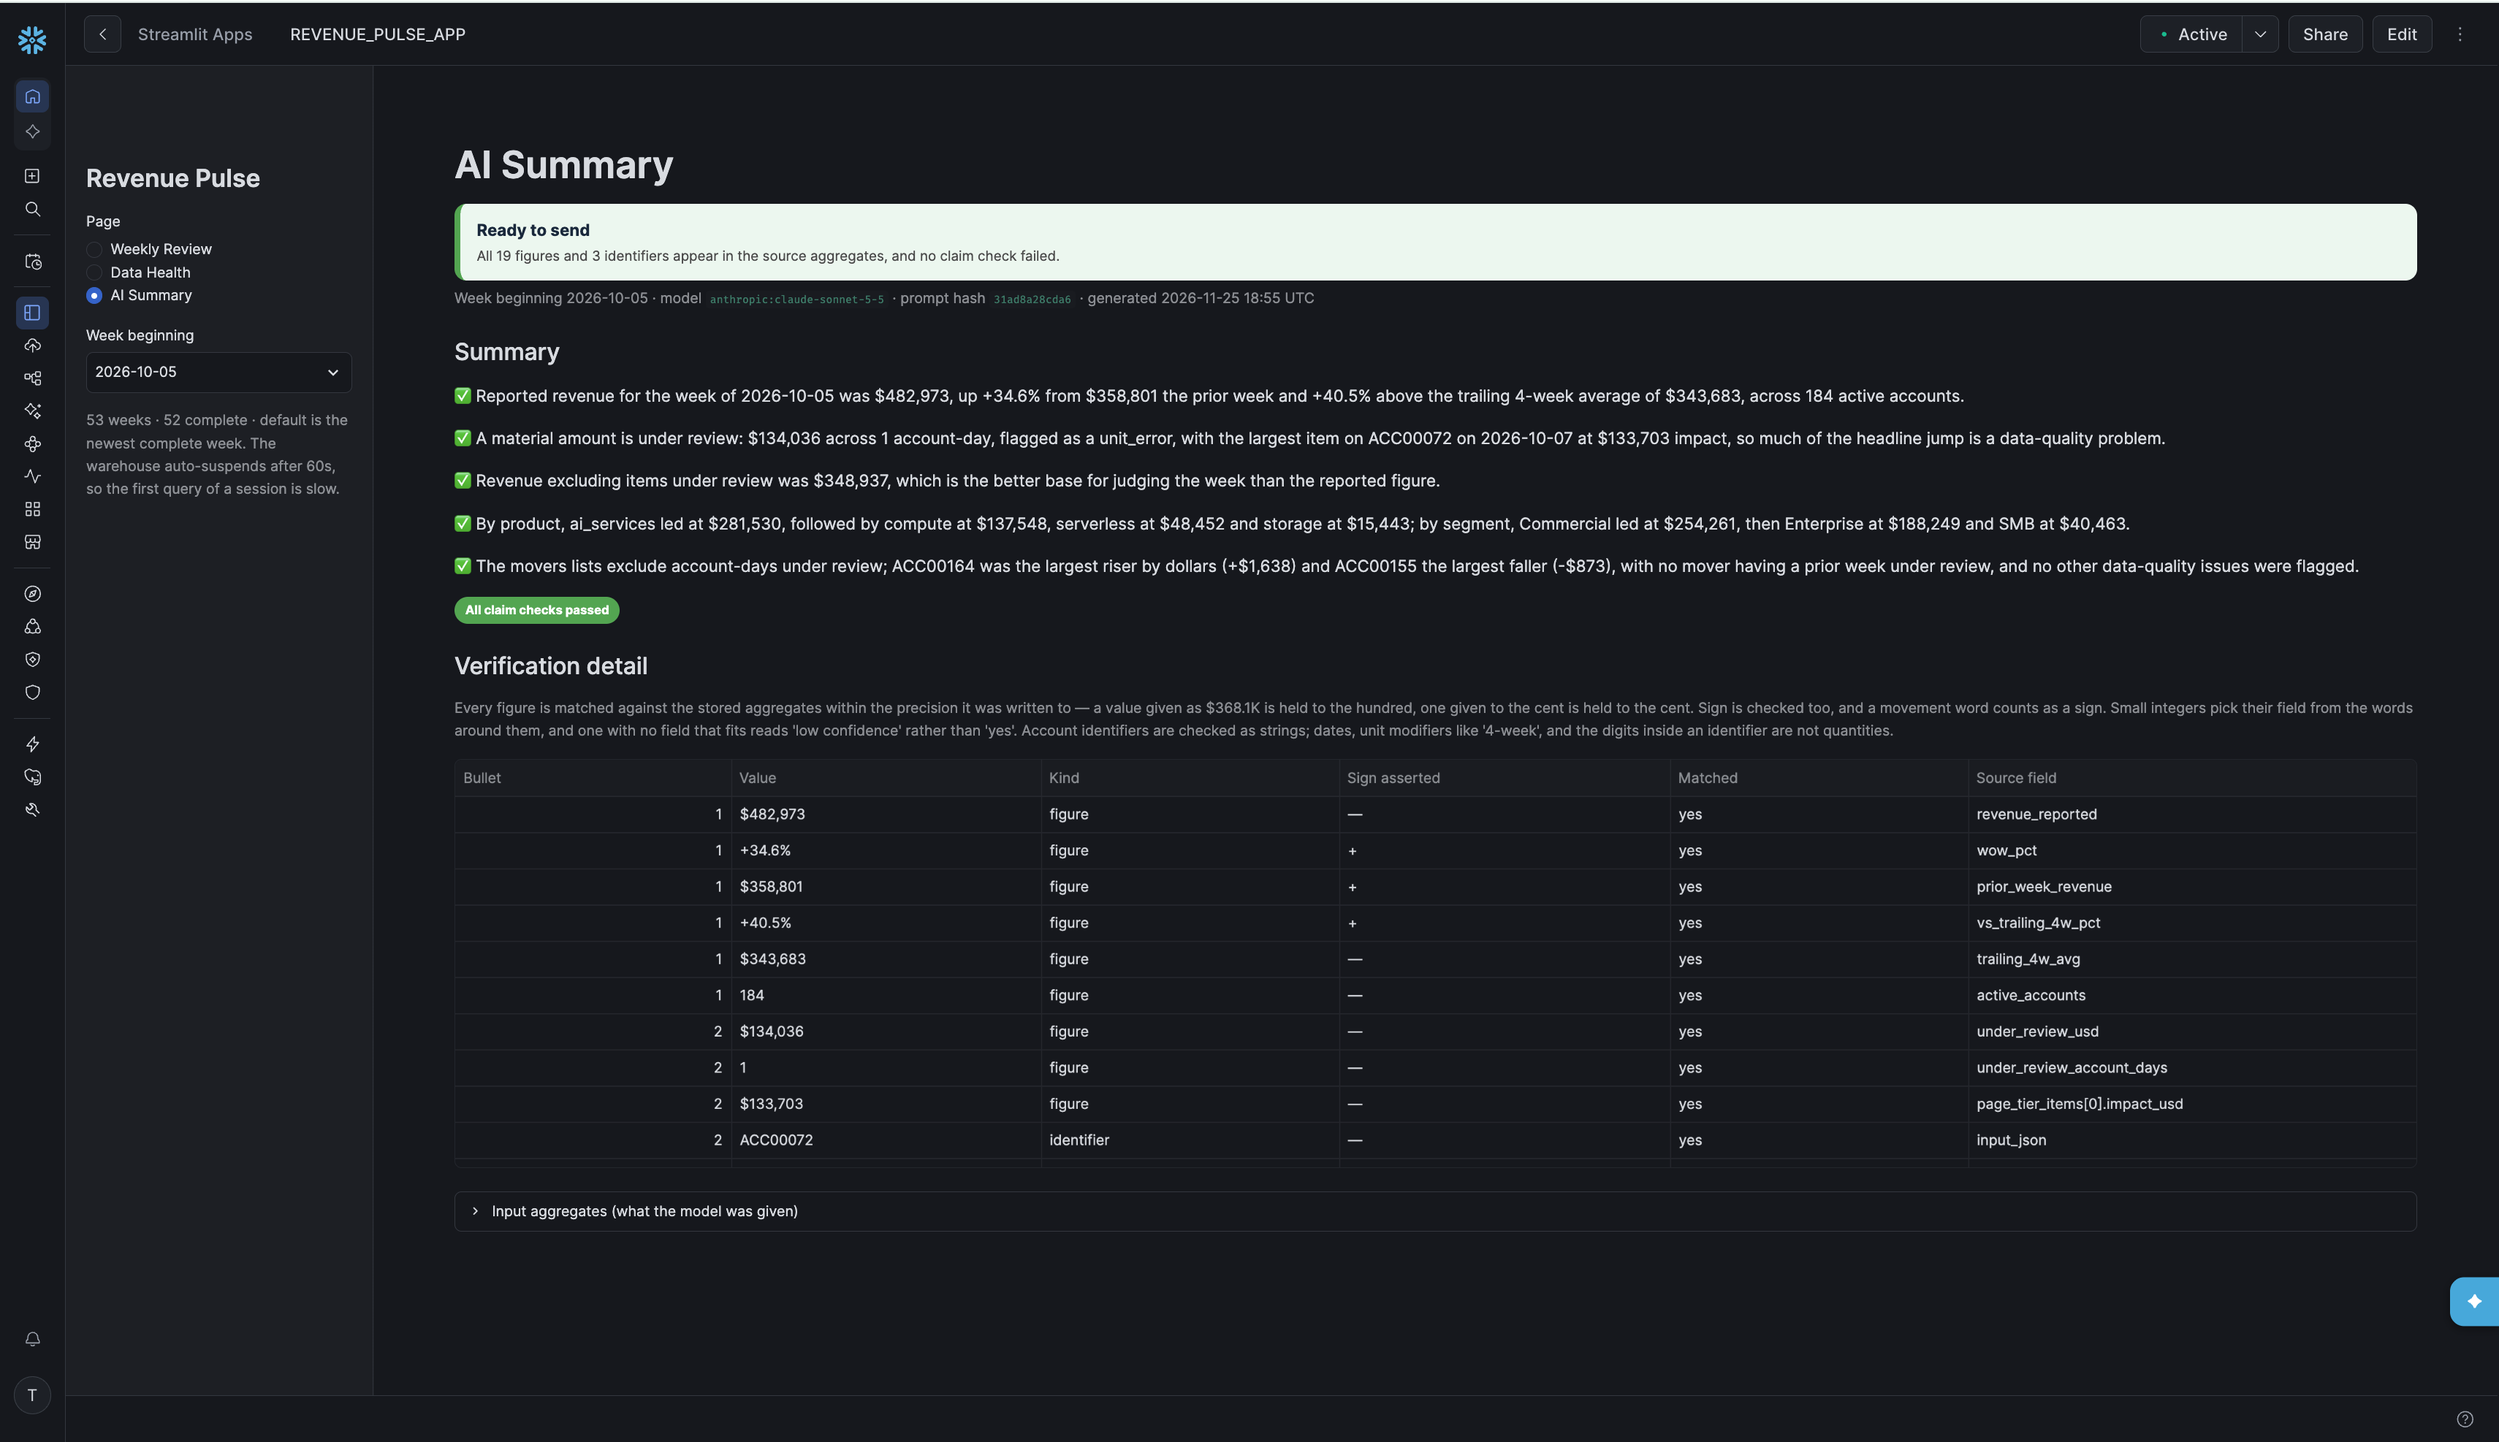
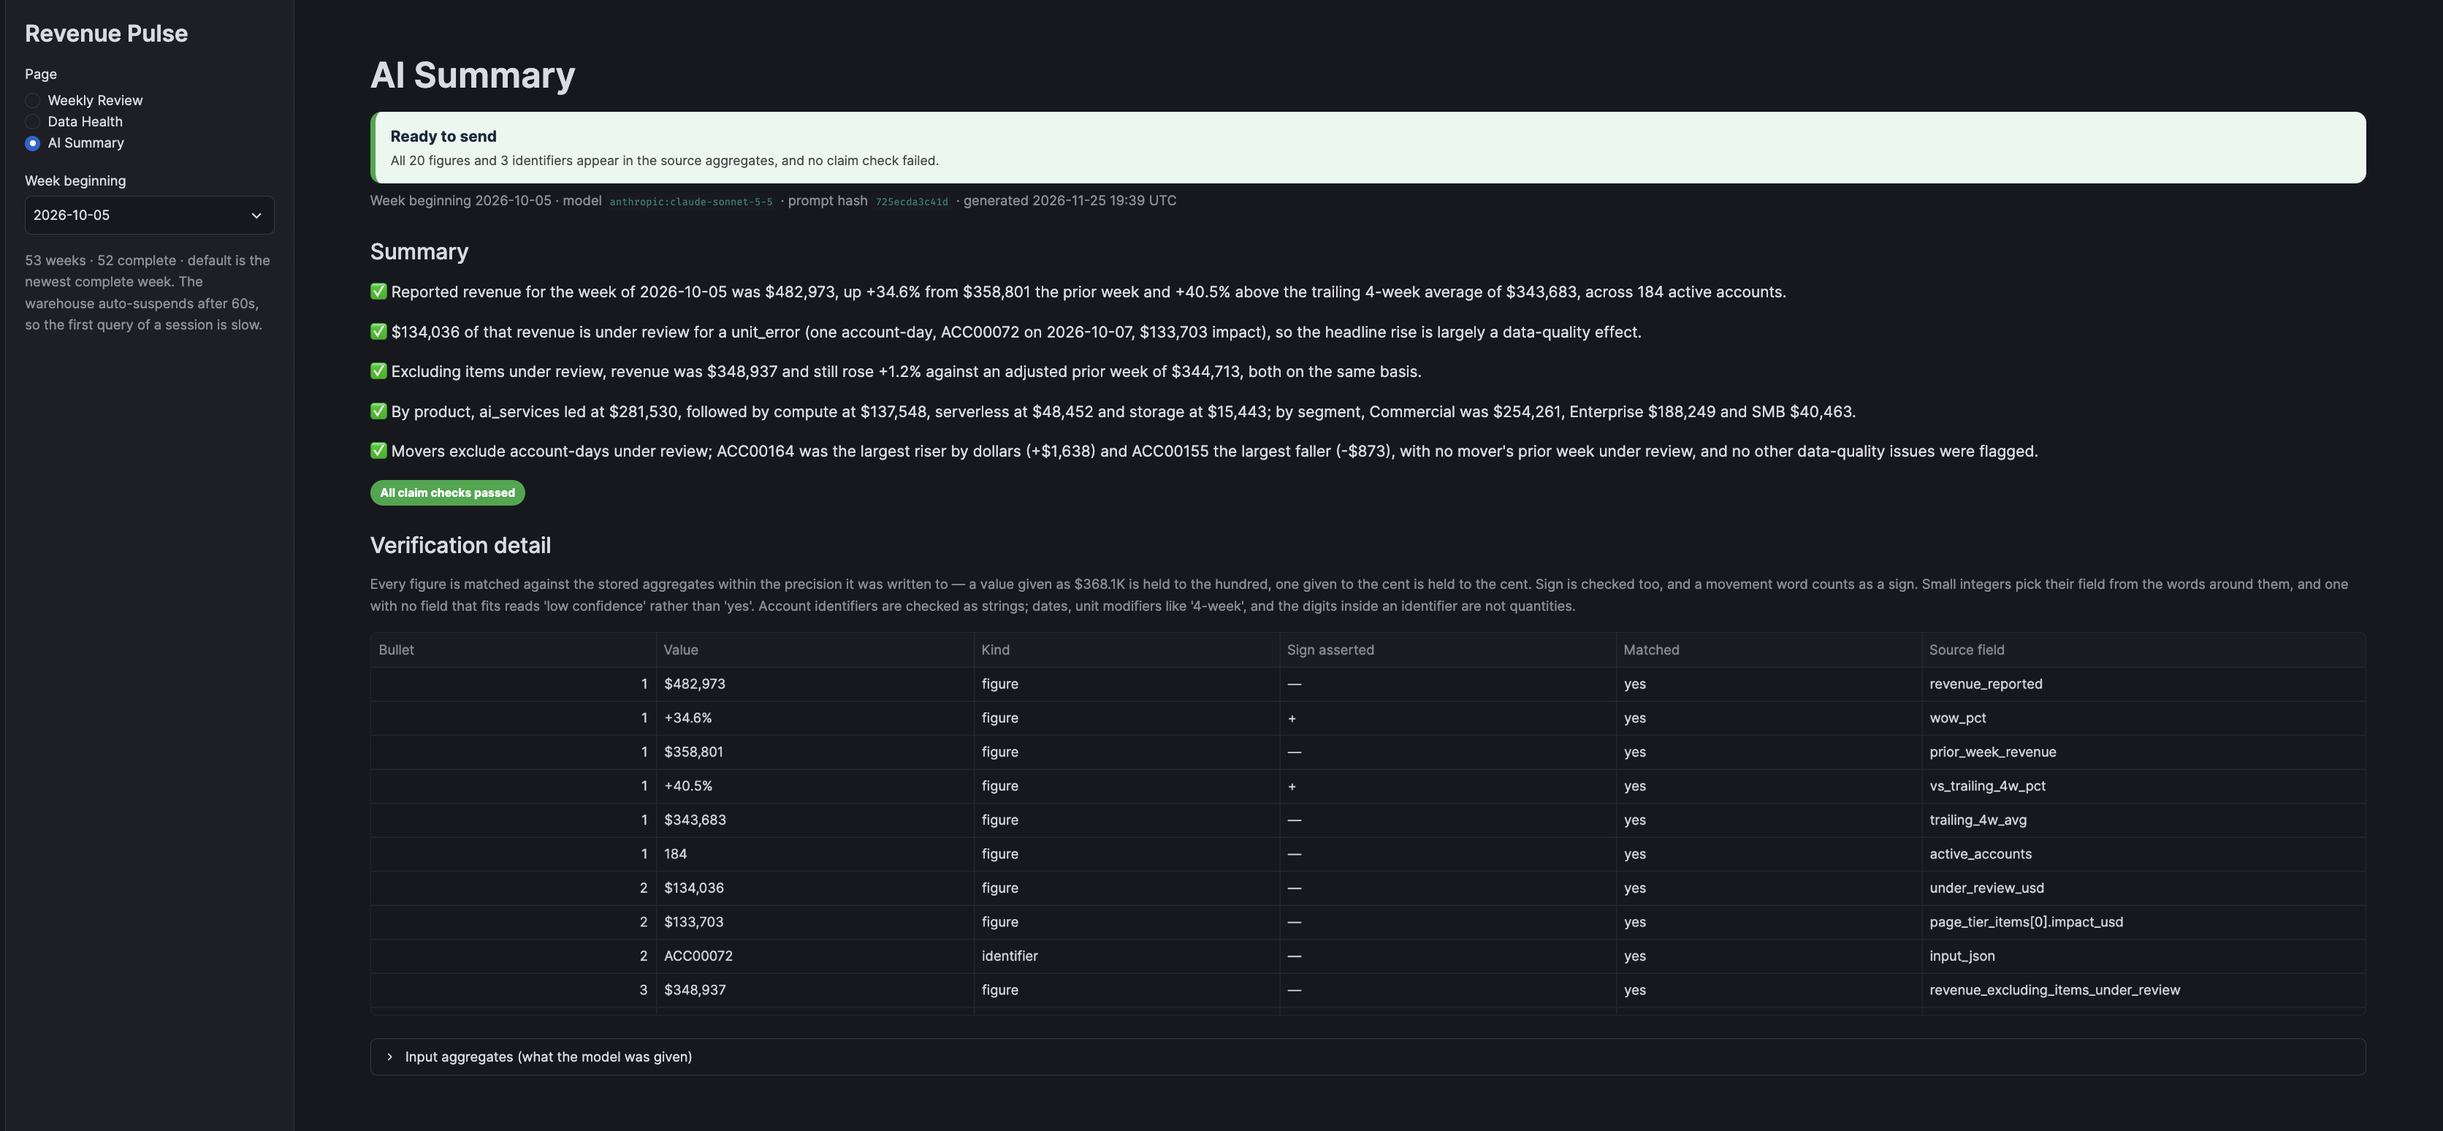
Update readme

diff --git a/DECISIONS.md b/DECISIONS.md
@@ -184,17 +184,19 @@ row was dated three hours in the **future**. The computed age was -3 hours,
 which clears any threshold — the check passed, and would have passed against a
 completely stalled pipeline.
 
-Fixed in the generator: usage now ends **yesterday** (UTC), and `loaded_at` is
-clamped to no later than `now`. Freshness is configured `warn_after: 36h`,
-`error_after: 72h`, and passes on a fresh load with an age of a few hours.
+Fixed in the generator: usage ends a full day before the snapshot instant, and
+`loaded_at` is clamped so nothing is recorded as loaded in the future.
+Freshness is configured `warn_after: 36h`, `error_after: 72h`.
 
-**Expect it to warn as the snapshot ages.** This is a static dataset: nothing
-reloads it, so 36 hours after a `generator/load.py` run the freshness check
-starts warning, and after 72 hours it errors. That is the check working, not a
-regression — re-run the generator and loader to reset it. It stops being a
-nuisance in Layer 2, when the Airflow daily run keeps `RAW` current and
-freshness becomes a genuine signal about the pipeline rather than about how
-long ago the snapshot was built.
+The first version of this fix ended the window on **yesterday**, which solved
+the future-timestamp problem and created a worse one — see part 12. The window
+is now pinned, so freshness measures the age of a fixed snapshot.
+
+**Expect it to warn, and read the warning correctly.** The snapshot is dated
+2026-11-23, so the freshness check reports exactly what it should: this data is
+old. That is the check working. It becomes a signal about the *pipeline* rather
+than about the snapshot only in Layer 2, when an Airflow daily load keeps `RAW`
+genuinely current.
 
 ### Note on reconciliation sign convention
 
@@ -811,6 +813,83 @@ be the fourth checker bug above, not model errors.
 what it was given before reaching for a sterner instruction. Three separate
 failures here — a misleading mover, a missing annotation, an absent delta —
 were all cheaper to fix in the payload than to police in the prose.
+
+---
+
+## 12. A seed is not reproducibility
+
+**The bug.** `generate.py` carried `seed=42` and a module docstring promising
+"repeated runs produce byte-identical values". It did not. The window ended on
+*yesterday*:
+
+```python
+end = utc_now().date() - timedelta(days=1)     # the bug
+```
+
+So every day the 365-day window slid forward, the synthetic series was built
+over different dates, and every planted anomaly landed on a different
+account-day. The seed fixed the random *draws*; the dates those draws were
+applied to moved.
+
+**How it surfaced.** Screenshots taken two days apart disagreed with the
+repository. Week 2026-10-05 went from $482,973 with $134,036 under review to
+$348,052 and "All clear" — the same week, the same code, the same seed. Every
+published figure moved with it: 2026-11-16 revenue $371,924 → $370,896,
+scenario B precision at \|z\|>5 from 20/24 to 11/14.
+
+Nothing failed. `dbt build` passed, the checkers passed, the summaries
+verified. The data was internally consistent on any given day and inconsistent
+with every document describing it.
+
+**The call.** Pin the window:
+
+```python
+END_DATE = date(2026, 11, 23)       # not derived from the clock
+```
+
+Overridable with `--end-date` or `RP_END_DATE` for Layer 2 work, with the
+docstring stating plainly that a different end date is a different dataset.
+
+Two further clock reads had to go with it, and finding them is the point —
+pinning the obvious one would have left the output still varying:
+
+| Read from the clock | Effect | Now |
+| --- | --- | --- |
+| window end | whole dataset shifts daily | pinned `END_DATE` |
+| `loaded_at` clamped to `now` | load timestamps differ per run | clamped to the snapshot instant |
+| `created_at` on the labels | parquet bytes differ daily | stamped from the snapshot |
+
+**Proven, not asserted.** `python generator/generate.py --verify-determinism`
+builds the dataset twice and compares SHA-256 of all four parquet files. The
+claim in the docstring is now a command anyone can run:
+
+```
+ACCOUNTS         80c0ceb4ca7fc0fd     yes
+USAGE_EVENTS     7cc7fa3b752319af     yes
+LEDGER_REVENUE   3fd8542a41a17890     yes
+ANOMALY_LABELS   e8594664b5d9f053     yes
+DETERMINISTIC: both runs produced byte-identical parquet files.
+```
+
+After re-pinning, every figure quoted across README.md, DECISIONS.md and
+app/README.md was re-checked against the warehouse — 21 of 21 matched, because
+the pinned window is the one they were written from.
+
+### Freshness is Layer 2's job, not the generator's
+
+The window originally chased "yesterday" for a defensible reason: so source
+freshness would pass instead of warning on stale data. That was solving the
+right problem in the wrong layer.
+
+A generator's job is to produce a **fixed, citable dataset**. Keeping data
+current is an *ingestion* concern, and in Layer 2 it is an Airflow daily load
+appending one real day — which exercises freshness honestly, because a late or
+missing run then means a late or missing run.
+
+Conflating the two cost reproducibility to buy a green check mark on a
+synthetic snapshot. The check now warns, correctly, that a snapshot dated
+2026-11-23 is old. A warning that is true is worth more than a pass that was
+arranged.
 
 ---
 

diff --git a/README.md b/README.md
@@ -53,25 +53,38 @@ Everything below this line is the technical detail.
 **Weekly Review** — the business view: revenue, how it moved, which accounts
 drove it. The red banner is the point of the project. Revenue looks up 34.6%
 this week, but $134,036 of that — 27.8% — is sitting under review as a
-suspected data error, so the headline is not yet a result anyone should act
-on. The small red markers on the charts flag the same thing week by week.
+suspected data error, so the week-over-week and trailing comparisons are
+deliberately shown in **grey rather than green**: the direction is not yet a
+business signal. The small red markers flag the same thing week by week.
 
 ![Weekly Review](docs/screenshots/weekly-review.png)
 
+Note the movers list. The account responsible for the error, ACC00072, appears
+near the bottom as a **-$286 faller** rather than at the top as a **+$133,750
+riser**, because movers are always ranked with the days under review removed.
+A data-quality artefact is not business movement, and it already has its own
+page.
+
 **Data Health** — the two kinds of problem, kept deliberately apart. The top
 table is for faults confirmed by comparing two independent records, which are
-worth waking someone for. The second is a review queue of things that merely
-look *unusual*, which are not. Selecting an item charts that account's daily
-revenue against the range the model expected: here a unit-conversion error
-reaches **1,200× its expected level**.
+worth waking someone for: here usage says $134,036 where the finance ledger
+says $332.79. The second is a review queue of things that merely look
+*unusual*. Selecting an item charts that account's daily revenue against the
+range the model expected — on a log scale, because a spike **25 standard
+deviations** out would otherwise flatten the expected band into a line.
 
 ![Data Health](docs/screenshots/data-health.png)
 
 **AI Summary** — a written weekly brief, generated by an AI model and then
 checked line by line against the figures it was given. It is marked "Ready to
 send" only if every number traces back to the source data *and* the claims
-about those numbers hold up. The table underneath shows exactly which field
-each figure came from.
+about those numbers hold up. The table underneath names the exact field each
+figure came from, and whether the text asserted a direction for it.
+
+Note the third bullet: excluding the items under review, revenue **rose 1.2%**
+against an adjusted prior week — both weeks measured on the same basis. An
+earlier draft compared the cleaned week against the uncompared prior week and
+reported the opposite direction.
 
 ![AI Summary](docs/screenshots/ai-summary.png)
 
@@ -143,11 +156,20 @@ of nine types** and records every one in `RAW.ANOMALY_LABELS`:
 The subtle three exist because a detector that only catches 10× spikes looks
 far better than it is.
 
-Two consequences of a static synthetic snapshot, both deliberate and both
-documented: source freshness starts warning 36 hours after a load (the check
-working, not a regression), and Snowflake Cortex `AI_COMPLETE` is unavailable
-on a trial account, so summary generation runs locally against the Anthropic
-API with a Cortex code path kept behind a flag.
+**The dataset is pinned and byte-reproducible.** The window ends on a fixed
+date, not on "yesterday" — an earlier version slid the window forward daily, so
+`seed=42` reproduced the random draws while every figure in the project quietly
+moved underneath them. Verify it:
+
+```bash
+python generator/generate.py --verify-determinism   # builds twice, compares SHA-256
+```
+
+Two further consequences of a fixed snapshot, both deliberate: source freshness
+reports the data as stale, which is the check telling the truth about a
+snapshot dated 2026-11-23; and Snowflake Cortex `AI_COMPLETE` is unavailable on
+a trial account, so summary generation runs locally against the Anthropic API
+with a Cortex code path kept behind a flag.
 
 ---
 
@@ -242,14 +264,14 @@ when the page loads, so a wrong number is caught rather than read.
 
 Three runs of each model on the same week, to compare accuracy, speed and cost:
 
-(week 2026-10-05, identical 2,548-token prompt —
+(week 2026-10-05, identical 2,896-token prompt —
 `python eval/compare_models.py 2026-10-05 --runs 3`)
 
 | Model | Verified | Latency | Tokens out | Cost/run | Price (in/out per MTok) |
 | --- | --- | --- | --- | --- | --- |
-| `claude-opus-5-5` | 3/3 | 4.98s | 533 | $0.0223 | $4 / $20 |
-| `claude-sonnet-5-5` | 3/3 | **3.21s** | 362 | $0.0094 | $2 / $10 |
-| `claude-haiku-5-5` | 3/3 | 5.85s | 1,255 | **$0.0009** | $0.10 / $0.50 |
+| `claude-opus-5-5` | 3/3 | 5.04s | 529 | $0.0222 | $4 / $20 |
+| `claude-sonnet-5-5` | 3/3 | **3.20s** | 371 | $0.0095 | $2 / $10 |
+| `claude-haiku-5-5` | 3/3 | 5.83s | 1,193 | **$0.0009** | $0.10 / $0.50 |
 
 All three are equally accurate on this task, so the choice is latency against
 cost. **Sonnet 5.5 is the default** — fastest, and 2.3× the cost of Haiku rather
